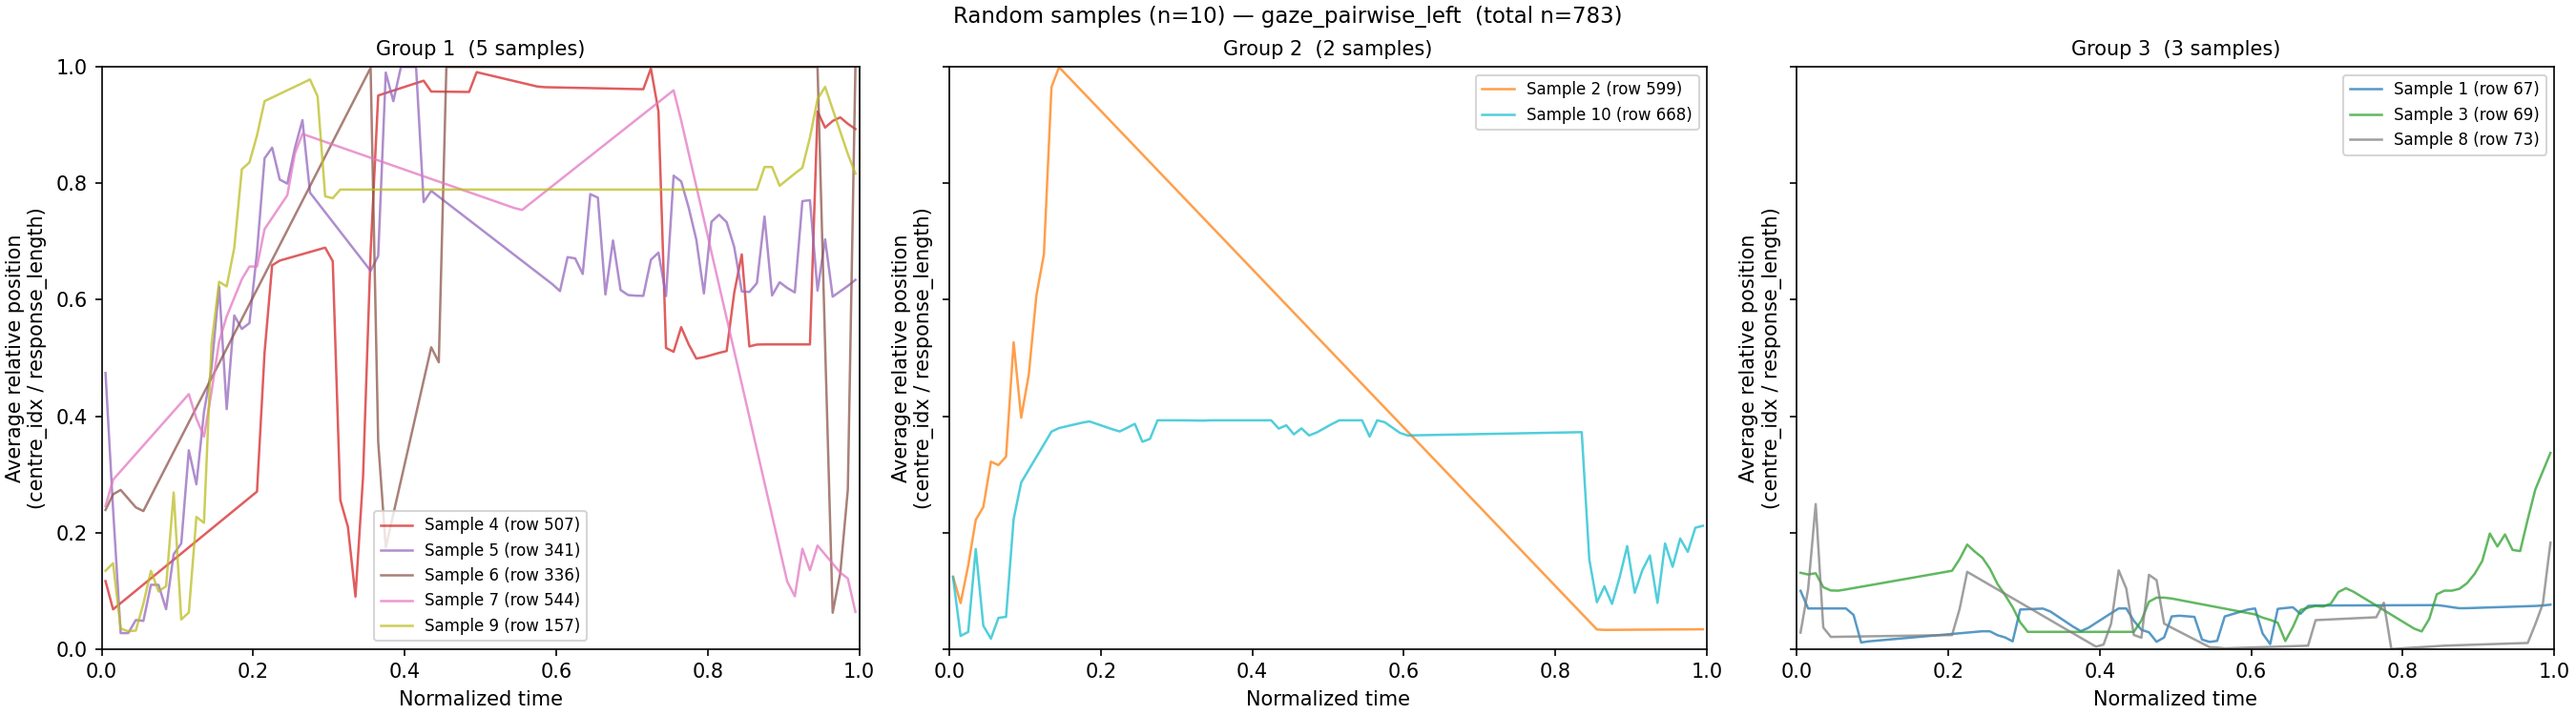
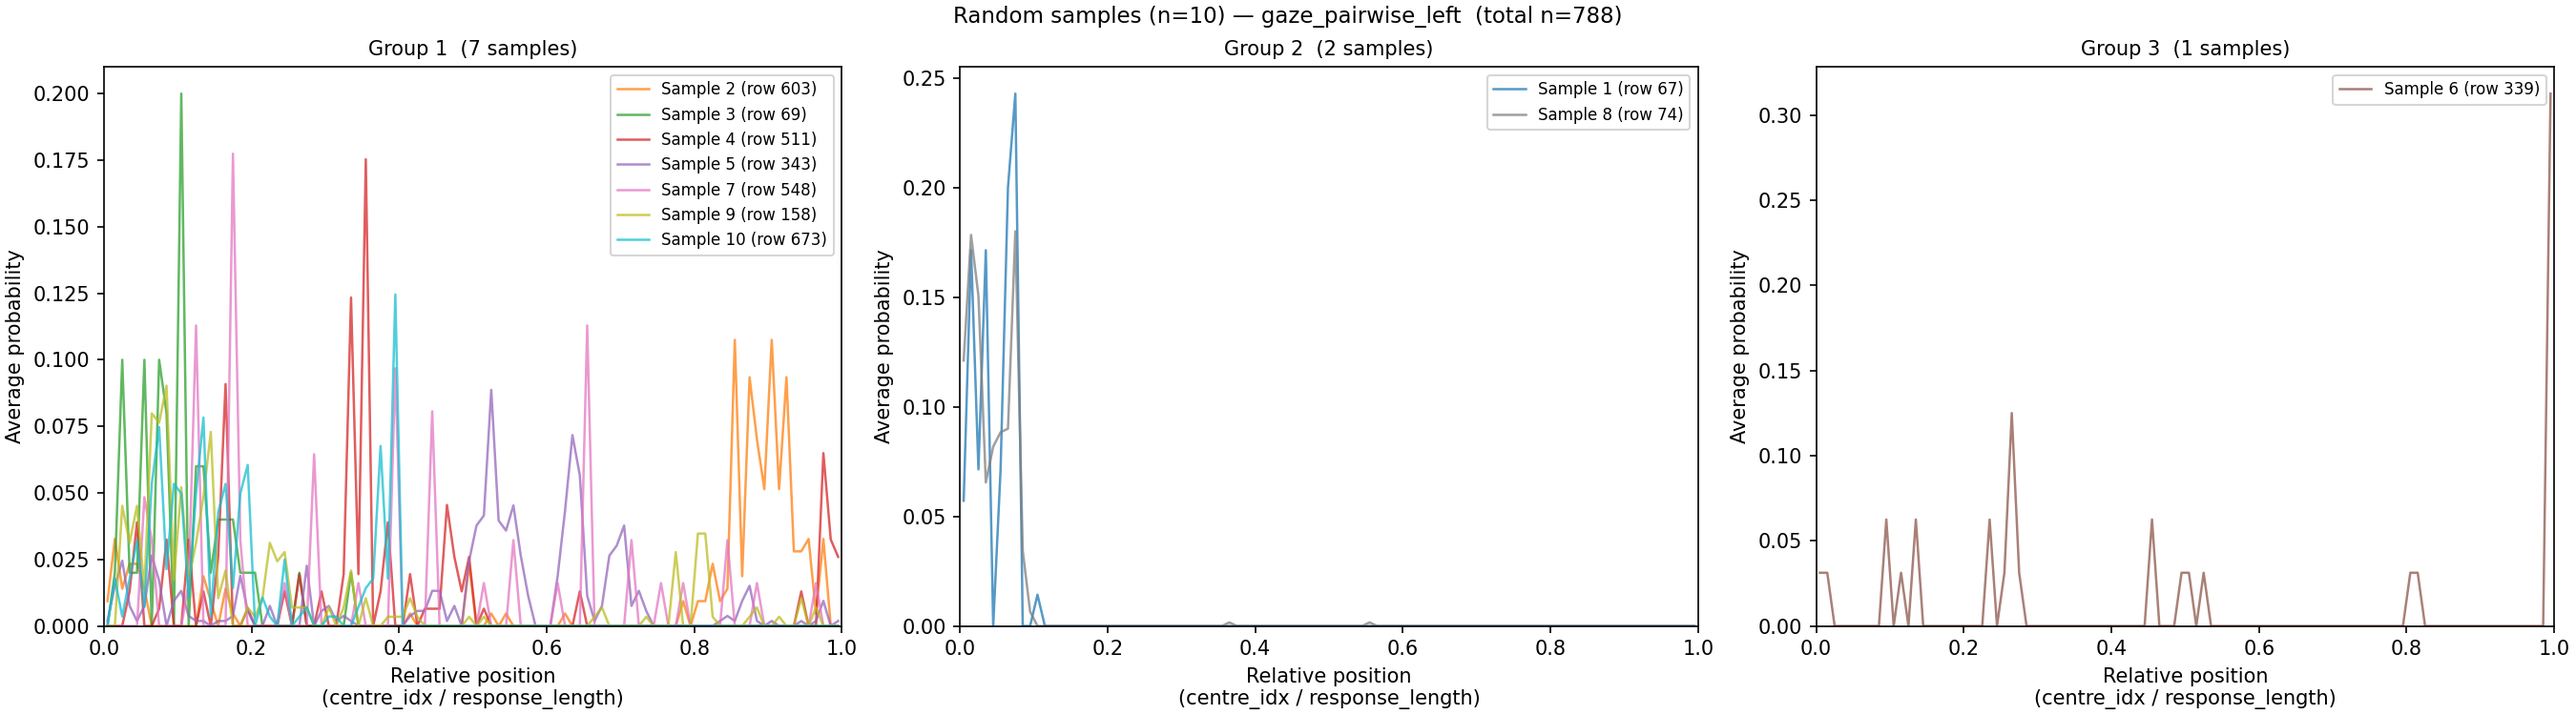
gaze mouse kmeans

diff --git a/src/vis/gaze_mouse_kmeans.py b/src/vis/gaze_mouse_kmeans.py
@@ -23,14 +23,16 @@ from scipy.cluster.hierarchy import dendrogram
 # Hyperparameters
 # ---------------------------------------------------------------------------
 MODALITY  = "gaze"        # "gaze" or "mouse"
-SIDE      = "left"        # "left" or "right"
-#DATA_TYPE = "histogram"    # "histogram" or "time_interp"
-DATA_TYPE = "time_interp"    # "histogram" or "time_interp"
+SIDE      = "right"        # "left" or "right"
+DATA_TYPE = "histogram"    # "histogram" or "time_interp"
+#DATA_TYPE = "time_interp"    # "histogram" or "time_interp"
 
-#N_CLUSTERS = 20
-N_CLUSTERS = 10
 RANDOM_STATE = 42
 N_GROUPS = 3        # number of shape-similarity groups for centroid/sample plots
+MIN_CLUSTER_SAMPLES = 10  # clusters smaller than this are excluded from group plots
+
+# histogram needs a lower k to avoid tiny outlier clusters; time_interp handles k=10 fine
+N_CLUSTERS = 6 if DATA_TYPE == "histogram" else 10
 
 # ---------------------------------------------------------------------------
 # Derived paths and source label
@@ -84,24 +86,34 @@ def _ax_labels(ax):
     if DATA_TYPE == "time_interp":
         ax.set_xlabel("Normalized time")
         ax.set_ylabel("Average relative position\n(centre_idx / response_length)")
+        ax.set_ylim(0, 1)
     else:
         ax.set_xlabel("Relative position\n(centre_idx / response_length)")
         ax.set_ylabel("Average probability")
+        ax.set_ylim(bottom=0)   # auto-scale top; histogram probs are ~0–0.05
     ax.set_xlim(0, 1)
-    ax.set_ylim(0, 1)
 
 
 # ---------------------------------------------------------------------------
 # Figure 1 — cluster centroids grouped by shape (N_GROUPS panels)
 # ---------------------------------------------------------------------------
-_centroid_group_labels = KMeans(
-    n_clusters=N_GROUPS, random_state=RANDOM_STATE, n_init=10
-).fit_predict(centroids)
+_valid_idxs = np.where(cluster_counts >= MIN_CLUSTER_SAMPLES)[0]
+_skipped = np.where(cluster_counts < MIN_CLUSTER_SAMPLES)[0]
+if len(_skipped):
+    print(f"Excluding {len(_skipped)} tiny cluster(s) from group plot: "
+          + ", ".join(f"C{i+1}(n={cluster_counts[i]})" for i in _skipped))
 
-fig1, axes1 = plt.subplots(1, N_GROUPS, figsize=(6 * N_GROUPS, 5),
-                            sharey=True, constrained_layout=True)
+_n_groups = min(N_GROUPS, len(_valid_idxs))   # can't have more groups than valid clusters
+_centroid_group_labels = KMeans(
+    n_clusters=_n_groups, random_state=RANDOM_STATE, n_init=10
+).fit_predict(centroids[_valid_idxs])
+
+_sharey = DATA_TYPE == "time_interp"   # histogram groups have very different y ranges
+fig1, axes1 = plt.subplots(1, _n_groups, figsize=(6 * _n_groups, 5),
+                            sharey=_sharey, constrained_layout=True)
 for g, ax in enumerate(axes1):
-    member_idxs = np.where(_centroid_group_labels == g)[0]
+    member_positions = np.where(_centroid_group_labels == g)[0]
+    member_idxs = _valid_idxs[member_positions]
     for idx in member_idxs:
         ax.plot(BIN_CENTERS, centroids[idx], color=CLUSTER_COLORS[idx], lw=1.5,
                 label=f"C{idx + 1} (n={cluster_counts[idx]})")
@@ -111,7 +123,7 @@ for g, ax in enumerate(axes1):
 
 fig1.suptitle(
     f"BisectingKMeans (k={N_CLUSTERS}, largest_cluster) — {SOURCE_LABEL}  "
-    f"(total n={len(subset)})",
+    f"(total n={len(subset)}, excluding clusters n<{MIN_CLUSTER_SAMPLES})",
     fontsize=11,
 )
 fig1.savefig(OUTPUT_PATH, dpi=150)
@@ -124,12 +136,13 @@ rng = np.random.default_rng(RANDOM_STATE)
 sample_idx = rng.choice(len(subset), size=N_CLUSTERS, replace=False)
 sample_rows = X[sample_idx]
 
+_n_sample_groups = min(N_GROUPS, N_CLUSTERS)
 _sample_group_labels = KMeans(
-    n_clusters=N_GROUPS, random_state=RANDOM_STATE, n_init=10
+    n_clusters=_n_sample_groups, random_state=RANDOM_STATE, n_init=10
 ).fit_predict(sample_rows)
 
-fig2, axes2 = plt.subplots(1, N_GROUPS, figsize=(6 * N_GROUPS, 5),
-                            sharey=True, constrained_layout=True)
+fig2, axes2 = plt.subplots(1, _n_sample_groups, figsize=(6 * _n_sample_groups, 5),
+                            sharey=_sharey, constrained_layout=True)
 for g, ax in enumerate(axes2):
     member_idxs = np.where(_sample_group_labels == g)[0]
     for idx in member_idxs:
